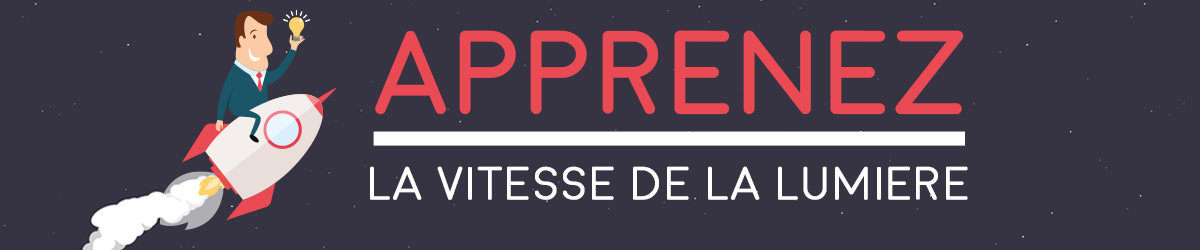
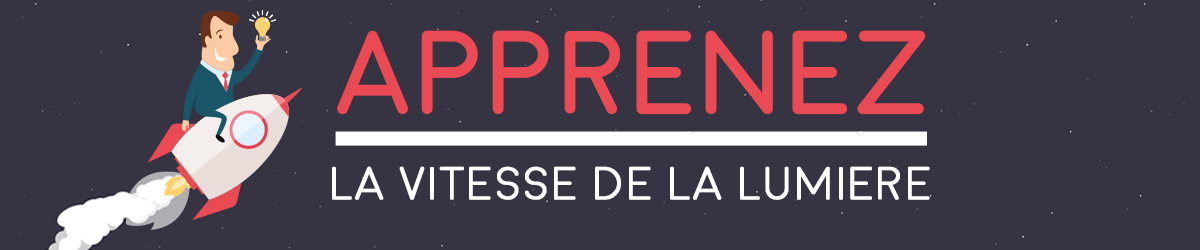
avancement du responsive

Changed region(s): [[0.0308, 0.028, 0.8017, 1.0], [0.2775, 0.644, 0.8017, 0.812], [0.7708, 0.504, 0.8017, 0.588]]

diff --git a/cursus.html b/cursus.html
@@ -36,9 +36,9 @@
         			</div>
         			<div class="collapse navbar-collapse navbar-right" id="monmenu">
         				<ul id="ul" class="nav navbar-nav">
-        					<li><a href="simplong.html">Simplon</a></li>
+                            <li><a href="simplong.html">Simplon.rbx</a></li>
+        					<li><a href="simplong.html">Simplon.co</a></li>
         					<li><a href="cursus.html">Cursus</a></li>
-        					<li><a href="#">Tutos</a></li>
         					<li><a href="adep.html">ADEP</a></li>
         					<li><a href="contact.html">Contact</a></li>
         				</ul>
@@ -49,7 +49,8 @@
         <!-- //////////////////////   NAVBAR END  ///////////////////////// -->
 
 <!-- /////////////////////    CONTENT    ////////////////////// -->
-<img src="img/banner_cursus2.png" alt="banniere formation apprenez à la vitesse de la lumière" class="imgbody">
+
+<img src="img/banner_cursus2.png" alt="banniere formation apprenez à la vitesse de la lumière" class="img-responsive banner">
 <!-- ////////////////////    INTRO       ///////////////////////-->
 <div class="containercursus">
 
@@ -72,8 +73,8 @@ Le choix du premier parcours fera l’objet d’une sélection de langage (par 
 
     <ul class="grid cs-style-3">
         <li>
-            <figure>
-                <img src="img/troncommun_img.png" alt="img04">
+            <figure><a href="troncommun.html" target="_blank">
+                <img src="img/troncommun_img.png" alt="img04"></a>
                 <figcaption>
                     <h3>Tronc commun</h3>
                     <span>Simplon Roubaix</span>
@@ -82,8 +83,8 @@ Le choix du premier parcours fera l’objet d’une sélection de langage (par 
             </figure>
         </li>
         <li>
-            <figure>
-                <img src="img/1.png" alt="img01">
+            <figure><a href="developpement.html" target="_blank">
+                <img src="img/developpement_img.png" alt="img01"></a>
                 <figcaption>
                     <h3>Developpement</h3>
                     <span>Découvrez le cursus</span>
@@ -92,8 +93,8 @@ Le choix du premier parcours fera l’objet d’une sélection de langage (par 
             </figure>
         </li>
         <li>
-            <figure>
-                <img src="img/2.png" alt="img02">
+            <figure><a href="e-projet.html" target="_blank">
+                <img src="img/projet_img.png" alt="img02"></a>
                 <figcaption>
                     <h3>E-projet</h3>
                     <span>Découvrez le cursus</span>

diff --git a/css/main.css b/css/main.css
@@ -474,6 +474,10 @@ footer .row {
     color: #ff5a59;
     font-weight: bold;
 }
+.banner {
+    clear: both;
+    margin-top: 8%;
+}
 
 .material-icons { /*------- couleurs des petites icones en debut de btn ----- */
     color: #ff5a59;
@@ -586,7 +590,7 @@ footer .row {
 	right: 20px;
 }
 
-
+/*----over des blocs annule */
 /*.cs-style-3 figure img {
 	-webkit-transition: -webkit-transform 0.4s;
 	-moz-transition: -moz-transform 0.4s;
@@ -629,7 +633,6 @@ footer .row {
 }*/
 
 
-
 @media screen and (max-width: 31.5em) {
 	.grid {
 		padding: 10px 10px 100px 10px;
@@ -638,6 +641,10 @@ footer .row {
 		width: 100%;
 		min-width: 300px;
 	}
+    p {
+        font-size: 0.9em;
+    }
+
 }/*------fin blocs colores du cursus -----*/
 
 
